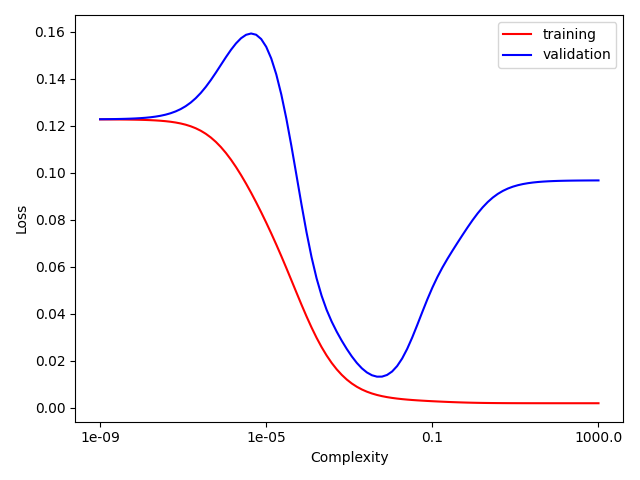
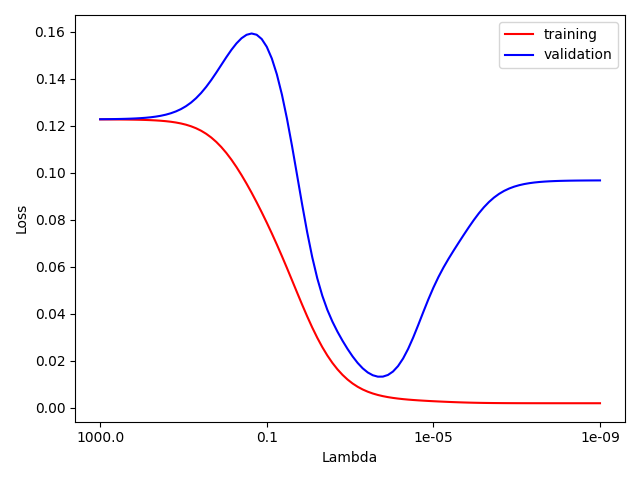
Corrected labeling

diff --git a/ex4/polynomial_regression.py b/ex4/polynomial_regression.py
@@ -103,11 +103,11 @@ def plot_loss(training_losses, validation_losses):
     plt.plot(scale, np.flip(training_losses), color='red', label='training')
     plt.plot(scale, np.flip(validation_losses), color='blue', label='validation')
     plt.legend()
-    plt.xlabel('Complexity')
+    plt.xlabel('Lambda')
     plt.ylabel('Loss')
 
     ticks = range(0, 100, 33)
-    logscale = np.logspace(-9, 3, 4)
+    logscale = np.flip(np.logspace(-9, 3, 4))
     plt.xticks(ticks, logscale)
 
     plt.tight_layout()
